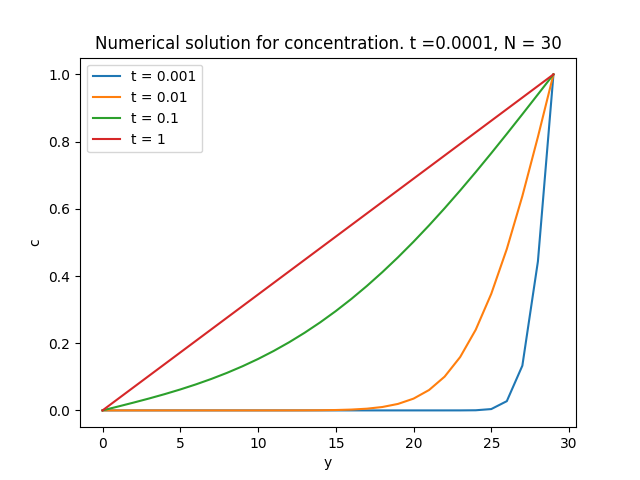
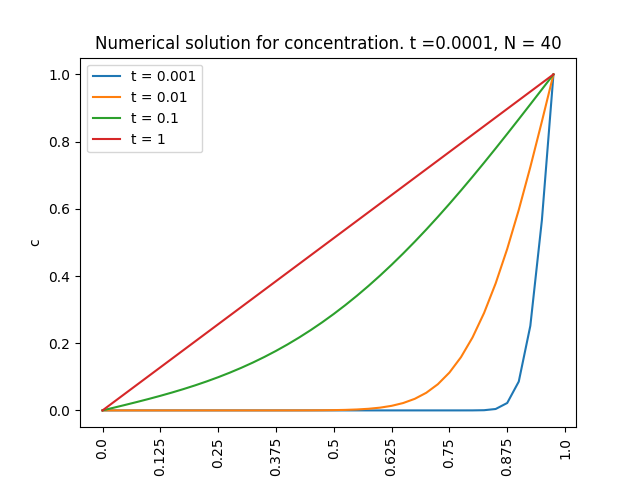
set2 dir

diff --git a/set1/timedependent.py b/set1/timedependent.py
@@ -11,6 +11,7 @@ class Grid:
         self.dt = dt
         self.D = D
         self.const = self.dt*self.D/(self.dx**2)
+        print(self.const)
         self.grid = np.zeros((N, N))
 
     def step(self):
@@ -61,13 +62,17 @@ if __name__ == '__main__':
         if(t0001 and T > 0.001):
             t0001 = False
             res.append(grid.grid[0])
+            t0001_grid = grid.grid
         elif(t001 and T > 0.01):
             t001 = False
             res.append(grid.grid[0])
+            t001_grid = grid.grid
         elif(t01 and T > 0.1):
             t01 = False
             res.append(grid.grid[0])
+            t01_grid = grid.grid
 
+    t1_grid = grid.grid
     res.append(grid.grid[0])
 
     analytic0001 = []
@@ -86,18 +91,18 @@ if __name__ == '__main__':
     # analytic1.append(1.0)
     x = [0, 5, 10, 15, 20, 25, 30, 35, 40]
     xticks = [i/float(N) for i in x]
-    # plt.figure();
-    # plt.plot(res[0], label="t = 0.001")
-    # plt.plot(res[1], label="t = 0.01")
-    # plt.plot(res[2], label="t = 0.1")
-    # plt.plot(res[3], label="t = 1")
-    # plt.legend()
-    # plt.xlabel("y")
-    # plt.ylabel("c")
-    # plt.xticks(x, xticks, rotation='vertical')
-    # plt.title("Numerical solution for concentration. t =" + `dt` + ", N = " + `N`)
-    # plt.show()
-
+    plt.figure();
+    plt.plot(res[0], label="t = 0.001")
+    plt.plot(res[1], label="t = 0.01")
+    plt.plot(res[2], label="t = 0.1")
+    plt.plot(res[3], label="t = 1")
+    plt.legend()
+    plt.xlabel("y")
+    plt.ylabel("c")
+    plt.xticks(x, xticks, rotation='vertical')
+    plt.title("Numerical solution for concentration. t =" + `dt` + ", N = " + `N`)
+    plt.show()
+    #
     plt.figure()
     plt.plot(analytic0001, label="t=0.001")
     plt.plot(analytic001, label="t=0.01")
@@ -109,15 +114,35 @@ if __name__ == '__main__':
     plt.xticks(x, xticks, rotation='vertical')
     plt.title("Analytical solution for concentration. t =" + `dt` + ", N = " + `N`)
     plt.show()
+    #
+    # plt.figure()
+    # plt.plot(abs(analytic0001 - res[0]), label="absolute error t=0.001")
+    # plt.plot(abs(analytic001 - res[1]), label="absolute error t=0.01")
+    # plt.plot(abs(analytic01 - res[2]), label="absolute error t=0.1")
+    # plt.plot(abs(analytic1 - res[3]), label="absolute error t=1")
+    # plt.legend()
+    # plt.xlabel("y")
+    # plt.ylabel("c")
+    # plt.xticks(x, xticks, rotation='vertical')
+    # plt.title("Error analysis. t =" + `dt` + ", N = " + `N`)
+    # plt.show()
 
-    plt.figure()
-    plt.plot(abs(analytic0001 - res[0]), label="absolute error t=0.001")
-    plt.plot(abs(analytic001 - res[1]), label="absolute error t=0.01")
-    plt.plot(abs(analytic01 - res[2]), label="absolute error t=0.1")
-    plt.plot(abs(analytic1 - res[3]), label="absolute error t=1")
-    plt.legend()
-    plt.xlabel("y")
-    plt.ylabel("c")
-    plt.xticks(x, xticks, rotation='vertical')
-    plt.title("Error analysis. t =" + `dt` + ", N = " + `N`)
+
+    plt.subplot(221)
+    plt.imshow(np.rot90(t0001_grid,1), cmap='hot')
+    plt.title('t = 0.001')
+    plt.colorbar()
+    plt.subplot(222)
+    plt.imshow(np.rot90(t001_grid,1), cmap='hot')
+    plt.title('t = 0.01')
+    plt.colorbar()
+    plt.subplot(223)
+    plt.imshow(np.rot90(t01_grid,1), cmap='hot')
+    plt.title('t = 0.1')
+    plt.colorbar()
+    plt.subplot(224)
+    plt.imshow(np.rot90(t1_grid, 1) , cmap='hot')
+    plt.title('t = 1')
+    plt.subplots_adjust(hspace=0.5)
+    plt.colorbar()
     plt.show()
